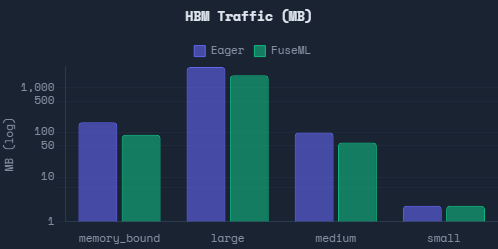
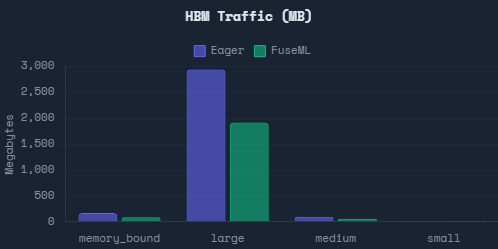
Update benchmark results for FuseML with new HBM traffic savings data
- Revised HBM traffic reduction description to clarify absolute savings through kernel fusion.
- Added a new section detailing HBM traffic savings with a visual representation of percentage reductions across memory-bound and compute-bound presets.
- Included updated images for HBM traffic and kernel count comparisons to enhance visual analysis of performance metrics.

diff --git a/BENCHMARK_RESULTS.md b/BENCHMARK_RESULTS.md
@@ -39,7 +39,13 @@ FuseML achieves up to **21% latency reduction** and **47% HBM traffic eliminatio
 
 ![HBM Traffic](docs/images/hbm_traffic.png)
 
-*FuseML reduces HBM traffic by 47-53% across all presets through kernel fusion, translating to lower memory bandwidth requirements and energy consumption.*
+*FuseML reduces absolute HBM traffic through kernel fusion, translating to lower memory bandwidth requirements and energy consumption.*
+
+### HBM Traffic Savings
+
+![HBM Saved Percentage](docs/images/hbm_saved_percentage.png)
+
+*FuseML reduces HBM traffic by 35-47% across memory-bound and compute-bound presets, with the largest savings on memory-bound workloads.*
 
 ### Kernel Count Reduction
 
